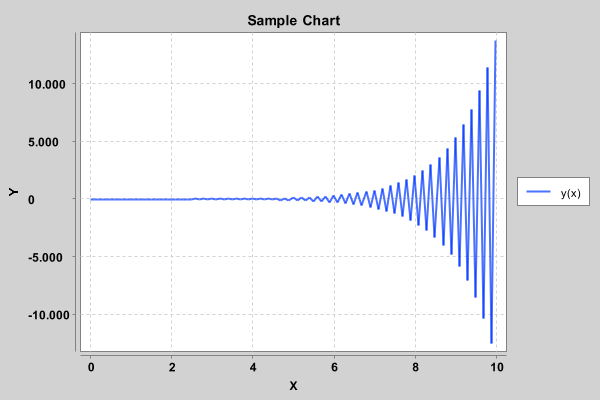
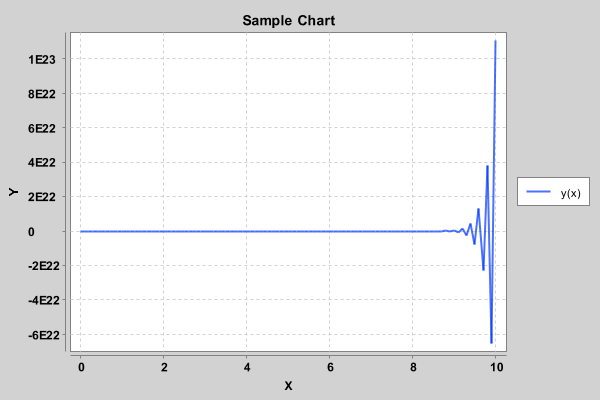
General explicit Runge Kutta solver implemented. tests for euler, heun and rk4 (simpson) implemented and evaluated.

diff --git a/src/rungeKuttaSolver/rungeKutta.java b/src/rungeKuttaSolver/rungeKutta.java
@@ -1,5 +1,144 @@
 package rungeKuttaSolver;
 
-public class rungeKutta {
+import java.io.IOException;
+import java.util.ArrayList;
+import java.util.Vector;
 
+import org.jblas.DoubleMatrix;
+
+import differentialEquations.DifferentialEquation;
+
+public class rungeKutta
+{
+	private double[] c;
+	private double[][] A;
+	private double[] b; 
+	private DifferentialEquation function;
+	
+	private double[][] y_values;
+	private double[] t_values;
+	
+	public rungeKutta(double[][] A, double[] b, double[] c) throws IOException
+	{
+		//check dimensions
+		if(c.length != A[0].length || b.length != A.length || c.length != b.length)
+			throw new IOException("RungeKutta Intialization Error: Dimensions of A,b,c incompatible");
+
+		//check conditions for b : sum(b_i)=1 
+		double sum = 0;
+		
+		for (int i = 0; i < b.length;i++) 
+			sum += b[i];
+		
+		if (Math.abs(sum - 1) > 0.000001) 
+			throw new IOException("RungeKutta Intialization Error: sum of elements of b is not equal to 1");
+		
+		this.A = A;
+		this.b = b;
+		this.c = c;
+	}
+	
+	public void run(double y_0, double t_0, double t_end, double stepSize)
+	{
+		this.run(new double[]{y_0}, t_0 ,t_end ,stepSize);
+	}
+	
+	public void run(double[] y_0, double t_0, double t_end, double stepSize)
+	{
+		int stepsCount = (int)((t_end-t_0)/stepSize + 1);
+		int s = b.length;
+
+		y_values = new double[stepsCount][y_0.length];
+		t_values = new double[stepsCount];
+		t_values[0] = t_0;
+		y_values[0] = y_0;
+		double h = stepSize;
+		
+		for (int i = 0; i< stepsCount-1 ; i++)
+		{
+			double t = t_values[i]; 
+			double y[] = y_values[i];
+			double[][]k = new double[s][y_0.length];
+			
+			for (int j = 0; j < s; j ++)
+			{
+				double[] temp = new double[y.length];
+				
+				for (int m = 0; m < j; m ++)
+				{
+					temp = sum(temp,mul(A[j][m],k[m]));
+				}
+				
+				k[j] = function.calculate(t+c[j]*h, sum(y,mul(h,temp))) ;
+				y_values[i+1] = sum(y_values[i+1],mul(b[j],k[j]));	
+			}
+			t_values[i+1] =  t_values[i]+h;
+			y_values[i+1]= sum(y_values[i],mul(h,y_values[i+1]));
+		}
+	}	
+
+	
+	public void setFunction(DifferentialEquation function)
+	{
+		this.function = function;
+	}
+	
+
+	public double[] getC() {
+		return c;
+	}
+	public void setC(double[] c) {
+		this.c = c;
+	}
+	public double[][] getA() {
+		return A;
+	}
+	public void setA(double[][] a) {
+		A = a;
+	}
+	public double[] getB() {
+		return b;
+	}
+	public void setB(double[] b) {
+		this.b = b;
+	}
+	public DifferentialEquation getFunction() {
+		return function;
+	}
+	public double[][] getY_values() {
+		return y_values;
+	}
+	public double[] getY_values(int i) throws IOException {
+		if( i >= y_values[0].length || i < 0)
+			throw new IOException("Solver GetY_value error: index exceeds array");
+		
+		double[] y = new double[y_values.length];
+		for( int j = 0; j < y.length; j++)
+			y[j]= y_values[j][i];
+		
+		return y;
+	}
+	public double[] getT_values() {
+		return t_values;
+	}
+
+	
+	private double[] sum(double[]a,double[]b)
+	{
+		if (a.length != b.length)
+			new IOException("double[]-sum exception: diffrent length");
+		double[] c = new double[a.length];
+		for (int i = 0; i < c.length; i++)
+			c[i]= a[i] + b[i];
+		return c;
+	}
+	
+	private double[] mul(double a,double[]b)
+	{
+		double[] c = new double[b.length];
+		for (int i = 0; i < c.length; i++)
+			c[i]= a * b[i];
+		return c;
+	}
+	
 }

diff --git a/src/examples/testPlot.java b/src/examples/testPlot.java
@@ -1,0 +1,85 @@
+package examples;
+
+
+import java.io.IOException;
+
+import rungeKuttaSolver.forwardEuler;
+import rungeKuttaSolver.rungeKutta;
+
+import com.xeiam.xchart.BitmapEncoder;
+import com.xeiam.xchart.BitmapEncoder.BitmapFormat;
+import com.xeiam.xchart.Chart;
+import com.xeiam.xchart.QuickChart;
+import com.xeiam.xchart.SwingWrapper;
+
+import differentialEquations.DifferentialEquation;
+import differentialEquations.Exp_DE;
+
+public class testPlot {
+	 public static void main(String[] args) throws IOException
+	 {
+		 double t_0 = 0;
+		 double lambda = -27;
+		 double y_0 = 1;
+		 double stepSize = 0.1;
+		 double t_end = 10;
+		 
+		 DifferentialEquation equation = new Exp_DE(lambda);
+		 forwardEuler solver = new forwardEuler(equation);
+		 solver.run(y_0, t_0, t_end, stepSize);	
+		 
+		 //forward euler
+		 double[][] A = new double[][]{{0}};
+		 double[] b = new double[]{1};
+		 double[] c = new double[]{1};
+		 rungeKutta solver2 = new rungeKutta(A, b, c);
+		 solver2.setFunction(equation);
+		 solver2.run(y_0, t_0, t_end, stepSize);
+		 
+		 //Heun
+		 A = new double[][]{{0		,0	},
+				 			{1		,0	}};
+		 b = new double[]{0.5,0.5};
+		 c = new double[]{0,1};
+		 rungeKutta solver3 = new rungeKutta(A, b, c);
+		 
+		 solver3.setFunction(equation);
+		 solver3.run(y_0, t_0, t_end, stepSize);
+
+		 //RK4 (Simpson
+		 A = new double[][]{{0,		0,		0,		0	},
+				 			{0.5,	0,		0,		0	},
+				 			{0,		0.5,	0,		0	},
+				 			{0,		0,		1,		0	}};
+		 b = new double[]	{1./6	,2./6,	2./6,	1./6};
+		 c = new double[]	{0		,0.5,	0.5,	1};
+		 rungeKutta solver4 = new rungeKutta(A, b, c);
+		 
+		 solver4.setFunction(equation);
+		 solver4.run(y_0, t_0, t_end, stepSize);
+		 
+		 double[] xData = solver.t_values;
+		 double[] yData = solver.y_values;
+		 double[] xData2 = solver2.getT_values();
+		 double[] yData2 = solver2.getY_values(0);
+		 double[] xData3 = solver3.getT_values();
+		 double[] yData3 = solver3.getY_values(0);
+		 double[] xData4 = solver4.getT_values();
+		 double[] yData4 = solver4.getY_values(0);
+		    // Create Chart
+		    Chart chart = QuickChart.getChart("Sample Chart", "X", "Y", "y(x)", xData, yData);
+		    Chart chart2 = QuickChart.getChart("Sample Chart", "X", "Y", "y(x)", xData2, yData2);
+		    Chart chart3 = QuickChart.getChart("Sample Chart", "X", "Y", "y(x)", xData3, yData3);
+		    Chart chart4 = QuickChart.getChart("Sample Chart", "X", "Y", "y(x)", xData4, yData4); 
+		    // Show it
+		    new SwingWrapper(chart).displayChart();
+		    new SwingWrapper(chart2).displayChart();
+		    new SwingWrapper(chart3).displayChart();
+		    new SwingWrapper(chart4).displayChart();
+		    // Save it
+		    BitmapEncoder.saveBitmap(chart, "./Sample_Chart1", BitmapFormat.PNG);
+
+		    // or save it in high-res
+		    BitmapEncoder.saveBitmapWithDPI(chart, "./Sample_Chart_300_DPI1", BitmapFormat.PNG, 300);
+	 }
+}

diff --git a/src/rungeKuttaSolver/forwardEuler.java b/src/rungeKuttaSolver/forwardEuler.java
@@ -2,6 +2,8 @@ package rungeKuttaSolver;
 
 import java.util.ArrayList;
 
+import differentialEquations.DifferentialEquation;
+
 public class forwardEuler 
 {
 	public double[] y_values;

diff --git a/src/differentialEquations/Exp_DE.java b/src/differentialEquations/Exp_DE.java
@@ -1,4 +1,5 @@
-package rungeKuttaSolver;
+package differentialEquations;
+
 
 public class Exp_DE implements DifferentialEquation 
 {

diff --git a/src/differentialEquations/DifferentialEquation.java b/src/differentialEquations/DifferentialEquation.java
@@ -1,4 +1,4 @@
-package rungeKuttaSolver;
+package differentialEquations;
 
 public interface DifferentialEquation
 {
